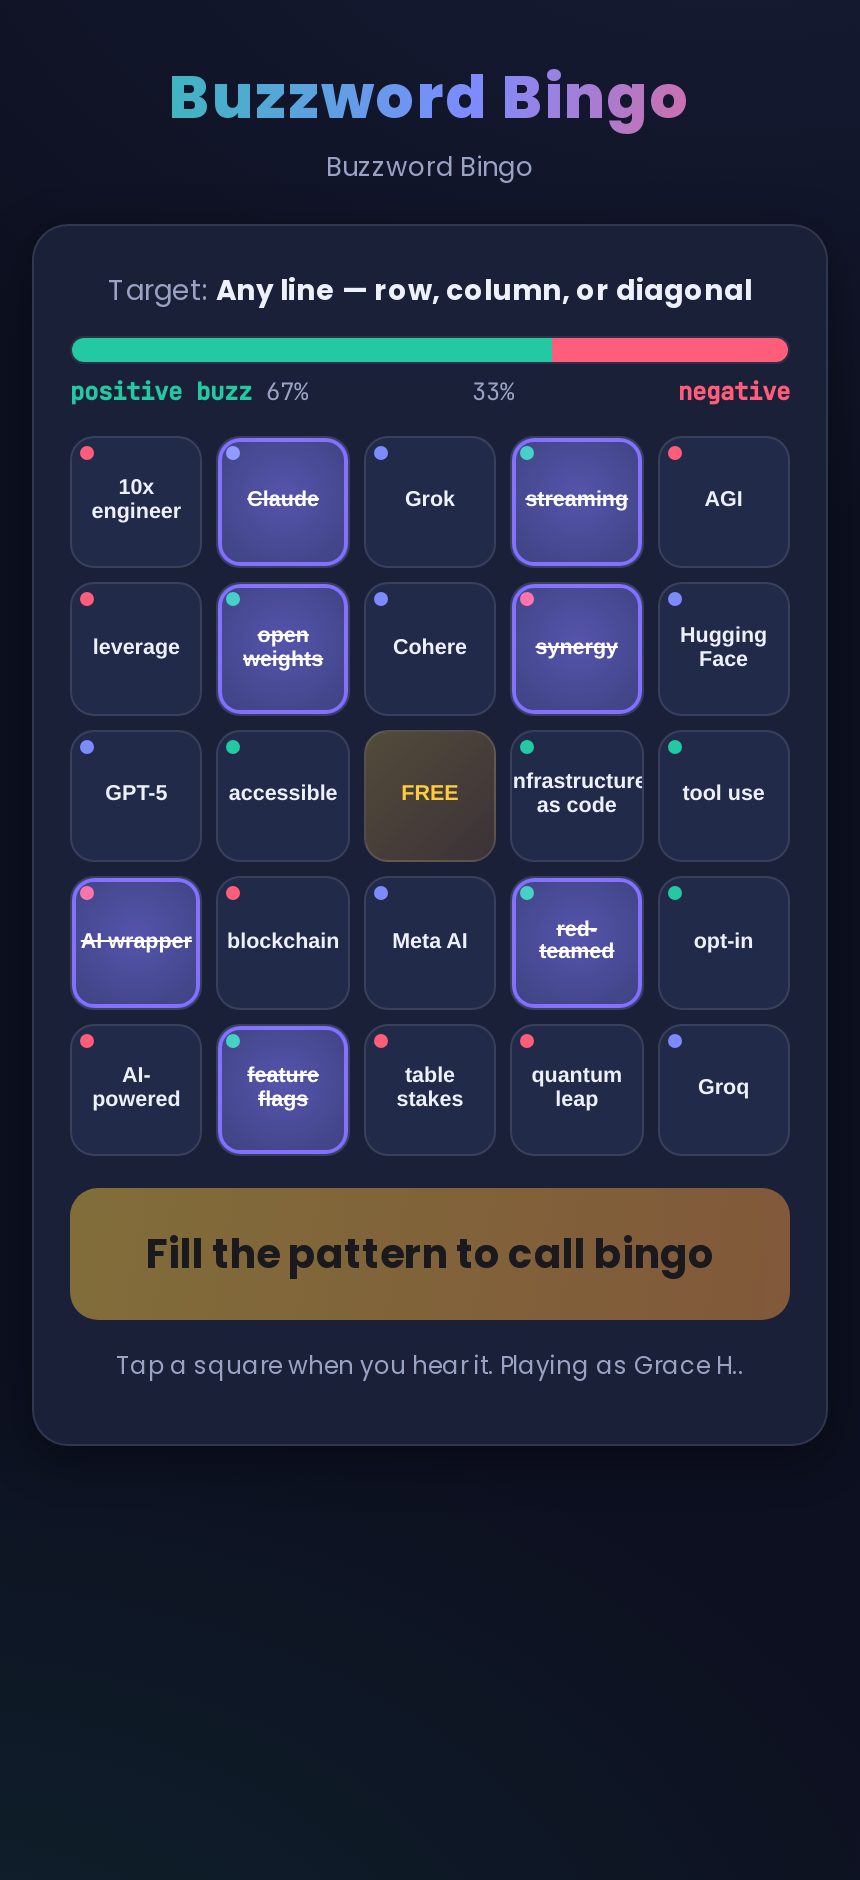
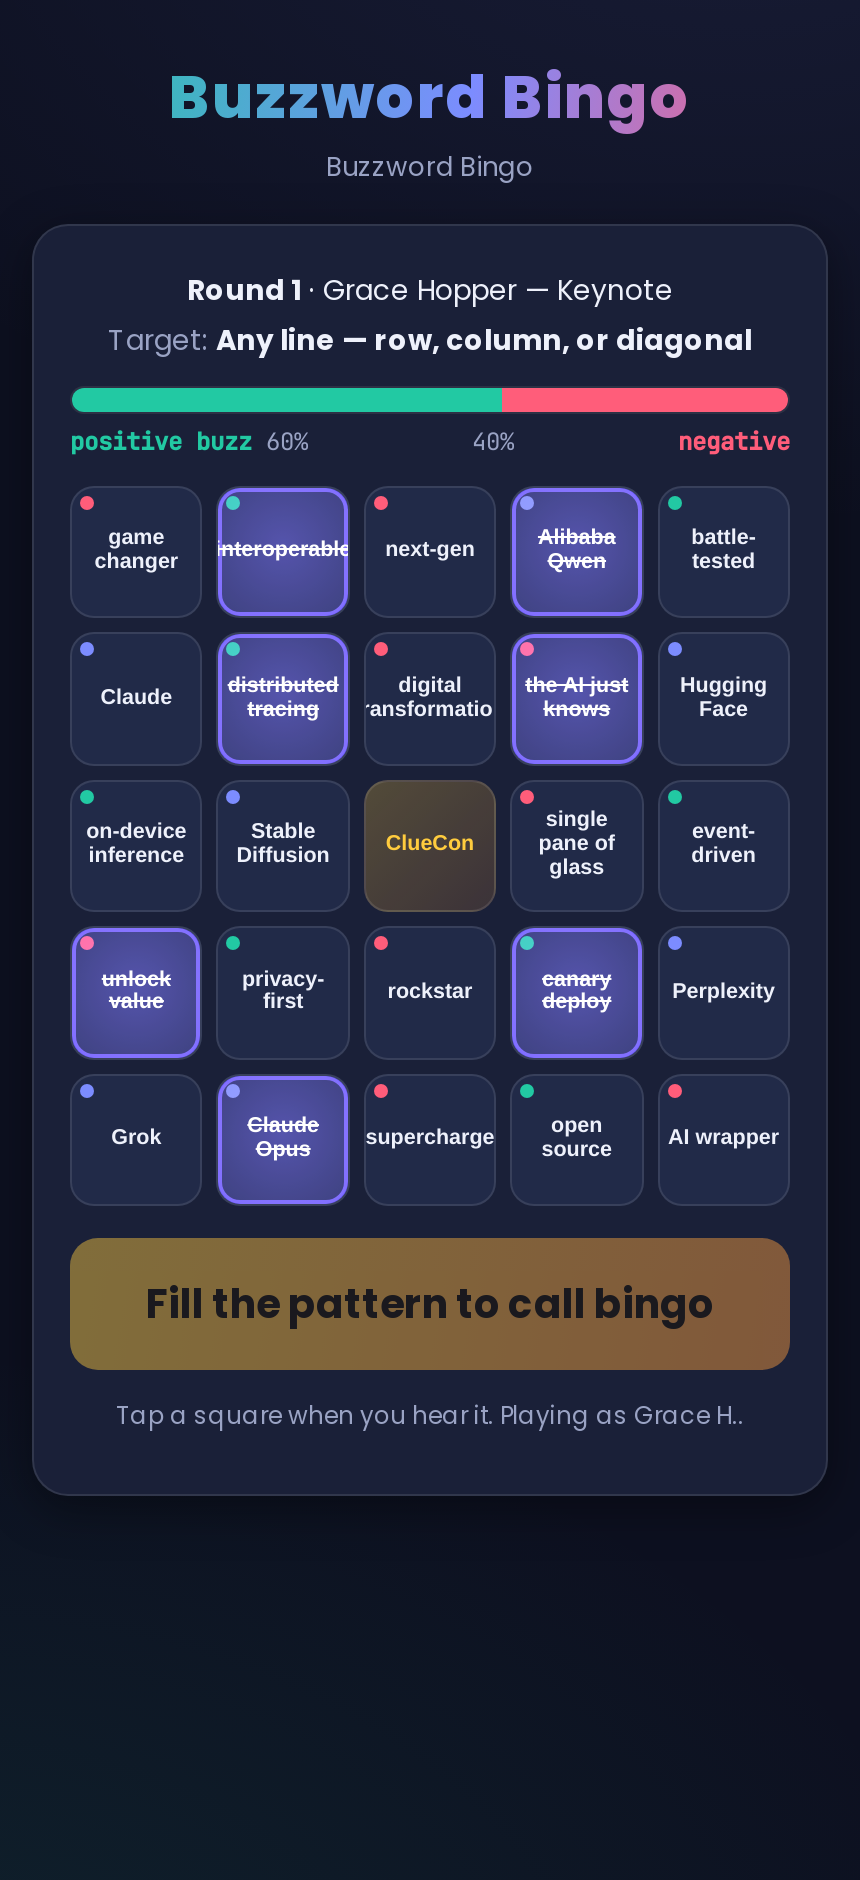
Show round + speaker on the player screen
/api/me returns round + speaker; the player card shows 'Round N · Speaker' above
the target, kept live via the public broadcast (new round or mid-round edit).

Changed region(s): [[0.0302, 0.1234, 0.9674, 0.8021]]

diff --git a/public/play.js b/public/play.js
@@ -39,6 +39,15 @@
     $('target').appendChild(b);
   }
 
+  function renderRoundInfo(round, speaker) {
+    var el = $('roundinfo');
+    if (!el) return;
+    el.innerHTML = '';
+    var r = document.createElement('b'); r.textContent = 'Round ' + (round || 1);
+    el.appendChild(r);
+    if (speaker) el.appendChild(document.createTextNode(' · ' + speaker));
+  }
+
   function renderGrid() {
     var g = $('grid');
     g.innerHTML = '';
@@ -142,6 +151,7 @@
     $('game').style.display = '';
     if (data.name) $('whoami').textContent = 'Playing as ' + data.name + '.';
     renderTarget();
+    renderRoundInfo(data.round, data.speaker);
     renderGrid();
     // /api/me is authoritative for sentiment, win, and round-closed state.
     api('/api/me').then(function (r) {
@@ -149,6 +159,7 @@
       won = !!d.wonAt; roundClosed = !!d.roundClosed;
       wonTime = d.wonAt ? fmtTime(d.wonAt) : '';
       marked = new Set(d.marked || []);
+      renderRoundInfo(d.round, d.speaker);
       renderGrid();
       renderMeter(d.sentiment);
       setBingoEnabled(d.complete);
@@ -185,9 +196,17 @@
       card = d.card; marked = new Set(d.marked || []); pattern = d.pattern || 'any_line'; won = !!d.wonAt;
       roundClosed = !!d.roundClosed;
       $('status').innerHTML = '';
+      renderRoundInfo(d.round, d.speaker);
       renderTarget(); renderGrid(); renderMeter(d.sentiment); setBingoEnabled(d.complete);
       flashStatus("🆕 New round — here's your fresh card!", 'pending');
     });
+  });
+
+  // Keep round/speaker live (e.g. operator edits the speaker mid-round).
+  socket.on('public', function (msg) {
+    if (!card || !msg) return;
+    renderRoundInfo(msg.round, msg.speaker);
+    if (msg.eventName) $('event-sub').textContent = msg.eventName;
   });
 
   // ---- boot: reload-safe ----

diff --git a/public/play.html b/public/play.html
@@ -28,6 +28,7 @@
 
     <!-- Game -->
     <div class="panel" id="game" style="display:none">
+      <div class="target" id="roundinfo" style="margin-bottom:2px;color:var(--txt)"></div>
       <div class="target" id="target">Target: <b>—</b></div>
       <div class="meter">
         <div class="bar"><div class="p" id="meter-p" style="width:0%"></div><div class="n" id="meter-n" style="width:0%"></div></div>

diff --git a/server.js b/server.js
@@ -168,6 +168,8 @@ app.get('/api/me', (req, res) => {
     complete: card ? bingo.evaluate(card, state.marked, pattern).complete : false,
     sentiment: card ? bingo.sentiment(card, state.marked) : null,
     eventName: db.getMeta('eventName'),
+    round: db.currentRound(),
+    speaker: db.getSpeaker(db.currentRound()),
     roundClosed: !roundOpen(),
   });
 });
